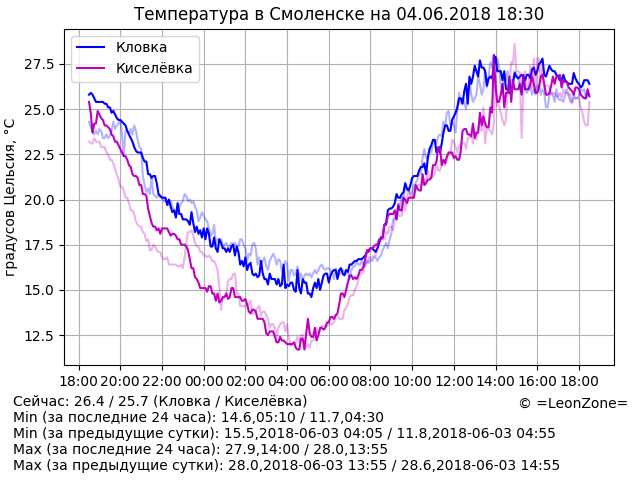
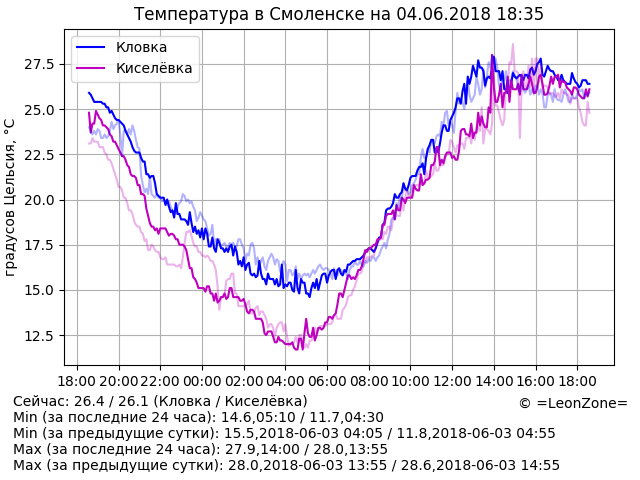
Update data

Changed region(s): [[0.125, 0.0938, 0.9375, 0.75], [0.0938, 0.7812, 0.9375, 0.8438]]

diff --git a/index.html b/index.html
@@ -14,7 +14,7 @@
 	<p align="center"><script>document.write("<img src=\"graph.png?rnd="+Math.random()+"\" alt=\"Температура в Смоленске\" align=\"middle\" width=\"640\" height=\"480\" />")</script>
 	<p hidden="true">
 <!-- textinfo -->
-Сейчас: 26.4 / 25.7 (Кловка / Киселёвка)
+Сейчас: 26.4 / 26.1 (Кловка / Киселёвка)
 Min (за последние 24 часа): 14.6,05:10 / 11.7,04:30
 Min (за предыдущие сутки): 15.5,2018-06-03 04:05 / 11.8,2018-06-03 04:55
 Max (за последние 24 часа): 27.9,14:00 / 28.0,13:55
